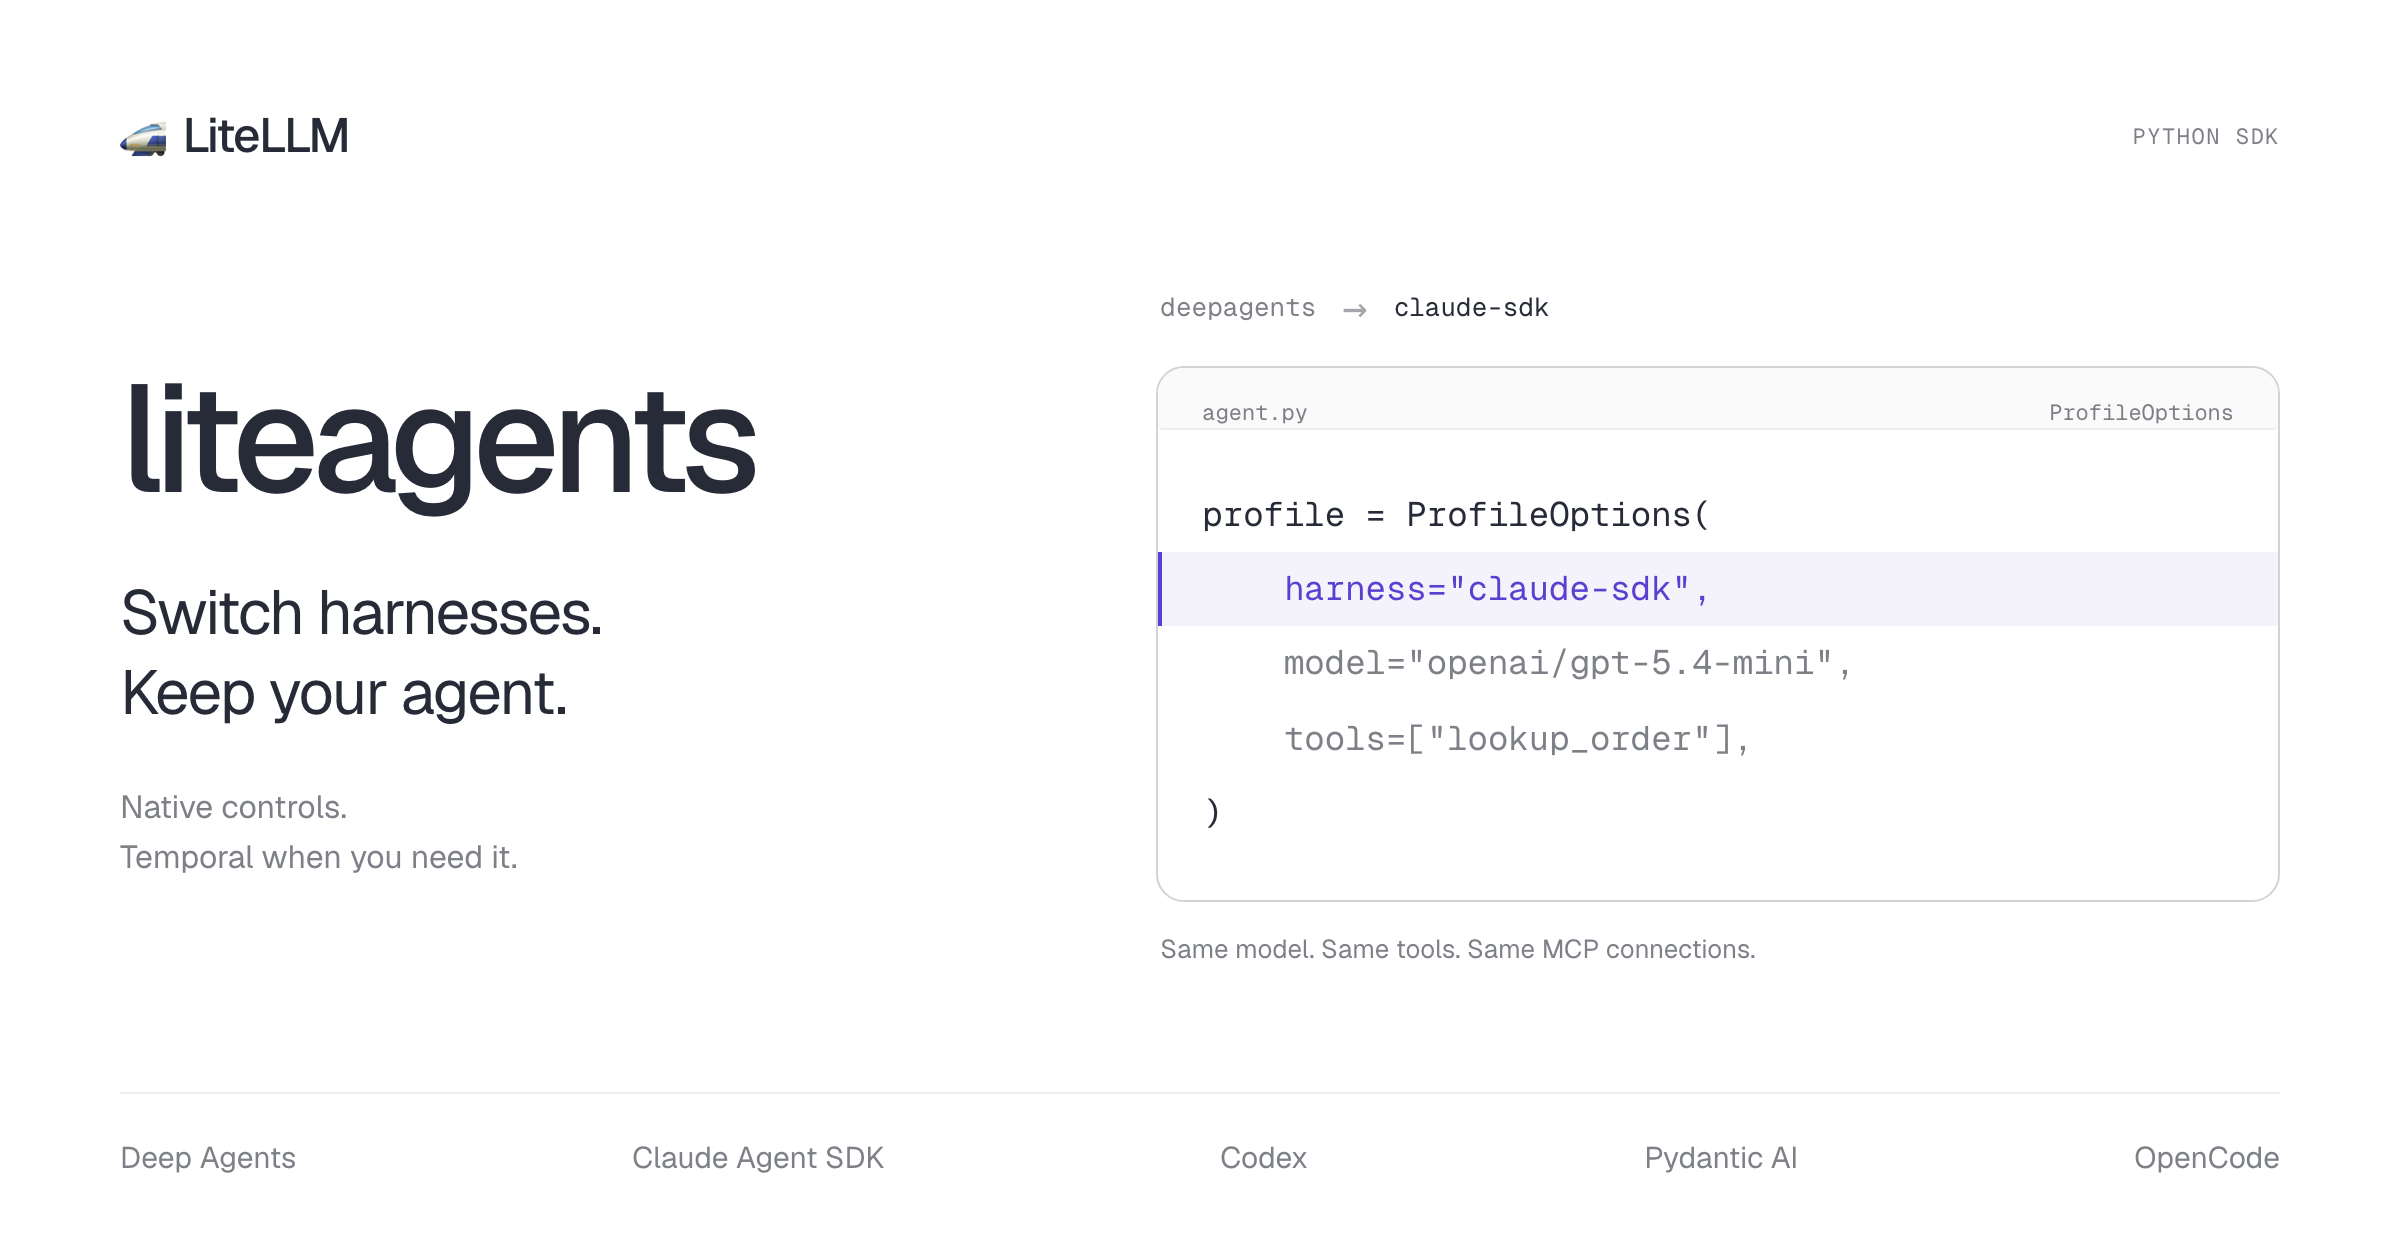
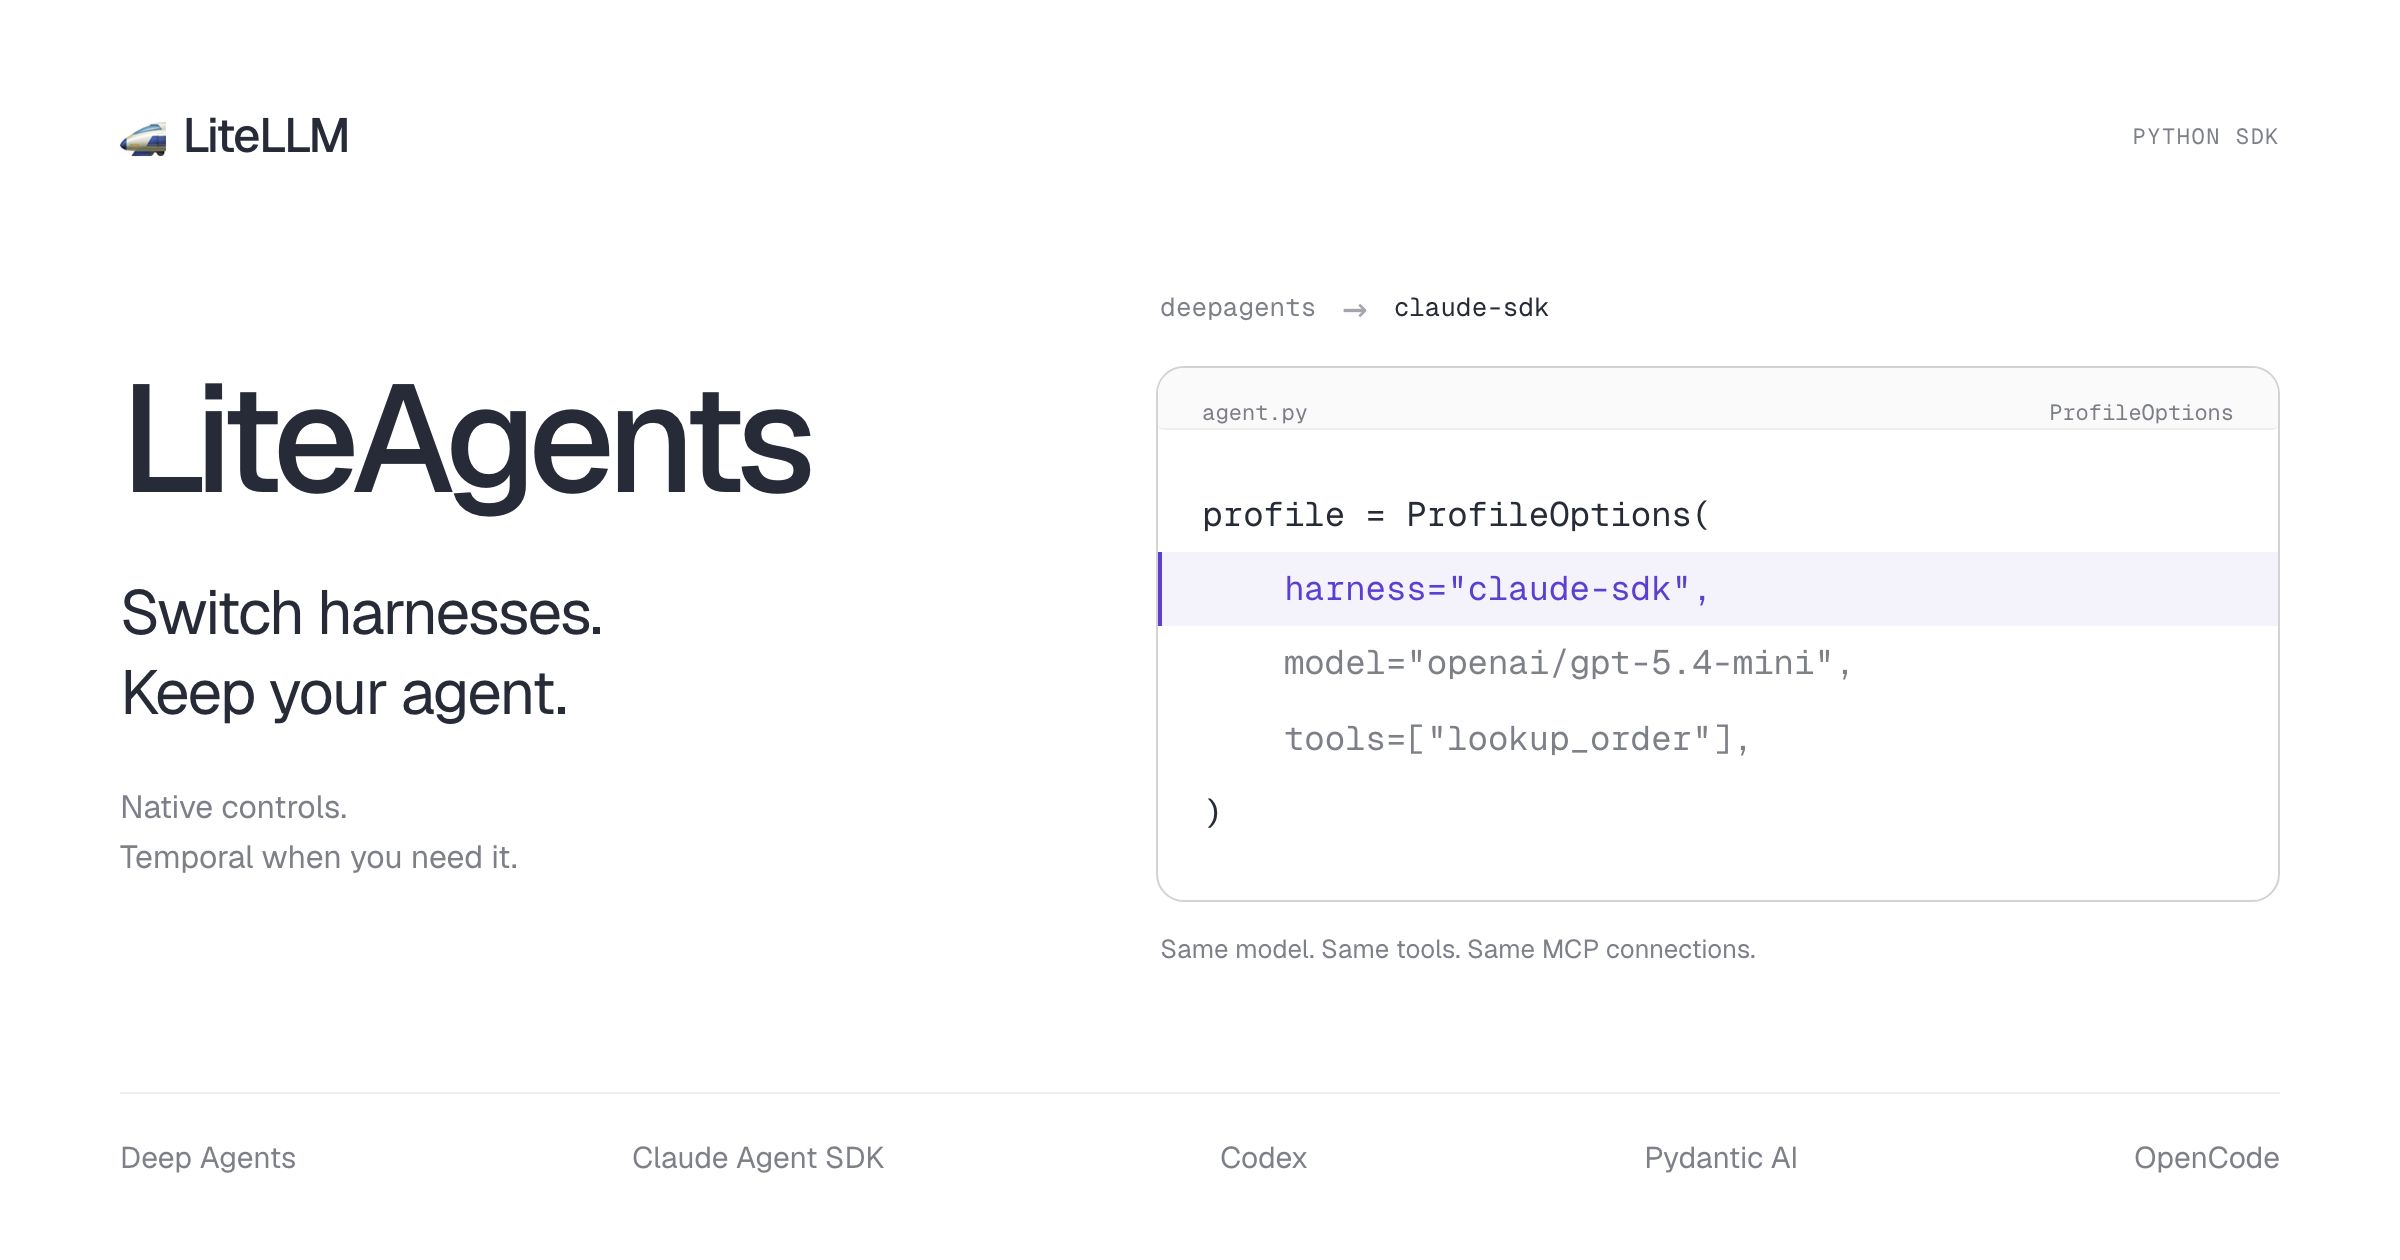
docs: capitalize LiteAgents launch branding

Changed region(s): [[0.0625, 0.3095, 0.3438, 0.4333]]

diff --git a/blog/liteagents_sdk/hero.html b/blog/liteagents_sdk/hero.html
@@ -1,5 +1,5 @@
 <!doctype html>
-<html lang="en" data-theme="light"><head><meta charset="utf-8"><meta name="scale" content="2"><title>liteagents: switch harnesses, keep your agent</title>
+<html lang="en" data-theme="light"><head><meta charset="utf-8"><meta name="scale" content="2"><title>LiteAgents: switch harnesses, keep your agent</title>
 <style>/* LiteLLM visual system.
  *
  * Every value was read off litellm.ai's computed styles or measured out of the
@@ -409,7 +409,7 @@ body { font-family: var(--sans); color: var(--ink); font-weight: 400; }
 .bottom{display:flex;justify-content:space-between;align-items:center;border-top:1px solid var(--line);padding-top:22px;gap:20px;font-size:15px;color:var(--ink-muted)}
 </style></head><body><div id="canvas">
 <div class="top"><div class="brand"><span class="train">&#128645;</span>LiteLLM</div><span class="eyebrow">PYTHON SDK</span></div>
-<div class="main"><div class="left"><h1 class="product">liteagents</h1><p class="claim">Switch harnesses.<br>Keep your agent.</p><p class="support">Native controls.<br>Temporal when you need it.</p></div>
+<div class="main"><div class="left"><h1 class="product">LiteAgents</h1><p class="claim">Switch harnesses.<br>Keep your agent.</p><p class="support">Native controls.<br>Temporal when you need it.</p></div>
 <div class="right"><div class="swap"><span>deepagents</span><span class="arrow">→</span><span class="to">claude-sdk</span></div><div class="code-card"><div class="bar"><span>agent.py</span><span>ProfileOptions</span></div><pre class="code"><span class="line">profile = ProfileOptions(</span><span class="line highlight">    harness="claude-sdk",</span><span class="line quiet">    model="openai/gpt-5.4-mini",</span><span class="line quiet">    tools=["lookup_order"],</span><span class="line">)</span></pre></div><p class="code-note">Same model. Same tools. Same MCP connections.</p></div></div>
 <div class="bottom"><span>Deep Agents</span><span>Claude Agent SDK</span><span>Codex</span><span>Pydantic AI</span><span>OpenCode</span></div>
 </div></body></html>

diff --git a/blog/liteagents_sdk/index.md b/blog/liteagents_sdk/index.md
@@ -1,6 +1,6 @@
 ---
 slug: liteagents-sdk
-title: "Introducing liteagents"
+title: "Introducing LiteAgents"
 date: 2026-09-25T10:00:00-07:00
 authors: [moe]
 description: "Switch agent harnesses without rewriting your agent. Keep your tools and model configuration, use native harness controls, and add Temporal when you need durable runs."
@@ -9,13 +9,13 @@ hide_table_of_contents: true
 image: ./hero.png
 ---
 
-![liteagents: switch harnesses, keep your agent. A ProfileOptions example changes deepagents to claude-sdk while keeping the model, tools, and MCP connections.](./hero.png)
+![LiteAgents: switch harnesses, keep your agent. A ProfileOptions example changes deepagents to claude-sdk while keeping the model, tools, and MCP connections.](./hero.png)
 
 You've built an agent with your own tools, prompts, and model configuration. Now you want to try a different harness on the same task.
 
-**liteagents lets you switch agent harnesses without rewriting your application.** Its interface is modeled after the Claude Agent SDK, including the `query()` pattern and typed messages. Choose Deep Agents, Pydantic AI, Claude Agent SDK, Codex, or OpenCode while keeping your tools, MCP connections, model configuration, and client code. Each selected harness runs its own agent loop.
+**LiteAgents lets you switch agent harnesses without rewriting your application.** Its interface is modeled after the Claude Agent SDK, including the `query()` pattern and typed messages. Choose Deep Agents, Pydantic AI, Claude Agent SDK, Codex, or OpenCode while keeping your tools, MCP connections, model configuration, and client code. Each selected harness runs its own agent loop.
 
-LiteLLM gives you a common interface to models. liteagents brings that approach to agent harnesses, with native controls and optional durability through Temporal.
+LiteLLM gives you a common interface to models. LiteAgents brings that approach to agent harnesses, with native controls and optional durability through Temporal.
 
 {/* truncate */}
 
@@ -23,7 +23,7 @@ LiteLLM gives you a common interface to models. liteagents brings that approach 
 
 An agent harness runs the loop around a model: supplying context, calling tools, and deciding when to continue. Different harnesses approach that work differently. You should be able to compare them on your own tasks without rebuilding the surrounding application.
 
-In liteagents, the harness is a field in your profile:
+In LiteAgents, the harness is a field in your profile:
 
 ```python
 import os
@@ -44,11 +44,11 @@ async with LiteAgentClient(options=options) as agent:
         print(message)
 ```
 
-This excerpt uses your existing `lookup_order` tool and the `LITELLM_API_KEY` environment variable. Set `model` to the alias configured on your gateway and `api_base` to its endpoint. liteagents sends the alias unchanged; no routing prefix is needed. Once you've installed the harness you want to try, change `harness` and run the same application.
+This excerpt uses your existing `lookup_order` tool and the `LITELLM_API_KEY` environment variable. Set `model` to the alias configured on your gateway and `api_base` to its endpoint. LiteAgents sends the alias unchanged; no routing prefix is needed. Once you've installed the harness you want to try, change `harness` and run the same application.
 
 Install only the harness integrations you plan to use. Extras such as `[deepagents]` supply that adapter's dependencies and reuse compatible packages in your Python environment. `[all]` is a convenience for trying every integration; OpenCode also needs its executable. Changing the profile selects which harness runs.
 
-liteagents adapts your tools, MCP configuration, and events to each harness. Your application receives the same `AssistantMessage`, `UserMessage`, and optional streaming `TextDelta` types whichever harness you choose. LiteLLM handles model translation internally, so switching harnesses keeps the same model connection. With a gateway, the gateway routes your model alias to its provider. Without a gateway, use a LiteLLM `provider/model` name and provider credentials; liteagents calls that provider through the LiteLLM Python library. Profiles also load from JSON or YAML.
+LiteAgents adapts your tools, MCP configuration, and events to each harness. Your application receives the same `AssistantMessage`, `UserMessage`, and optional streaming `TextDelta` types whichever harness you choose. LiteLLM handles model translation internally, so switching harnesses keeps the same model connection. With a gateway, the gateway routes your model alias to its provider. Without a gateway, use a LiteLLM `provider/model` name and provider credentials; LiteAgents calls that provider through the LiteLLM Python library. Profiles also load from JSON or YAML.
 
 ## Keep the harness's native controls
 
